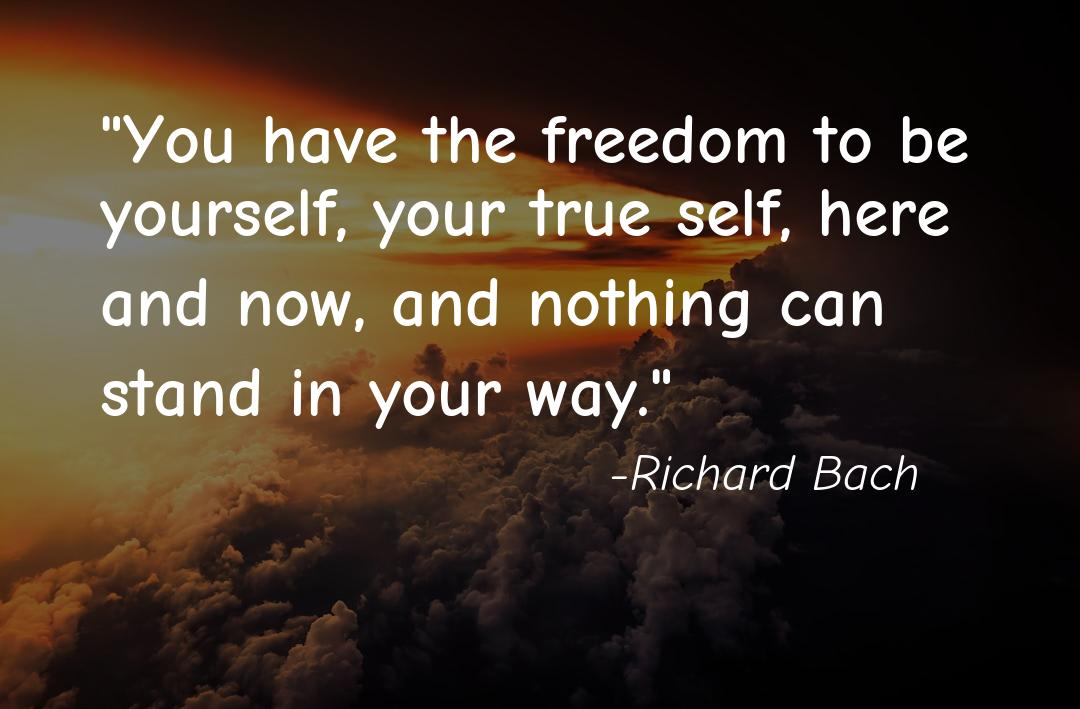
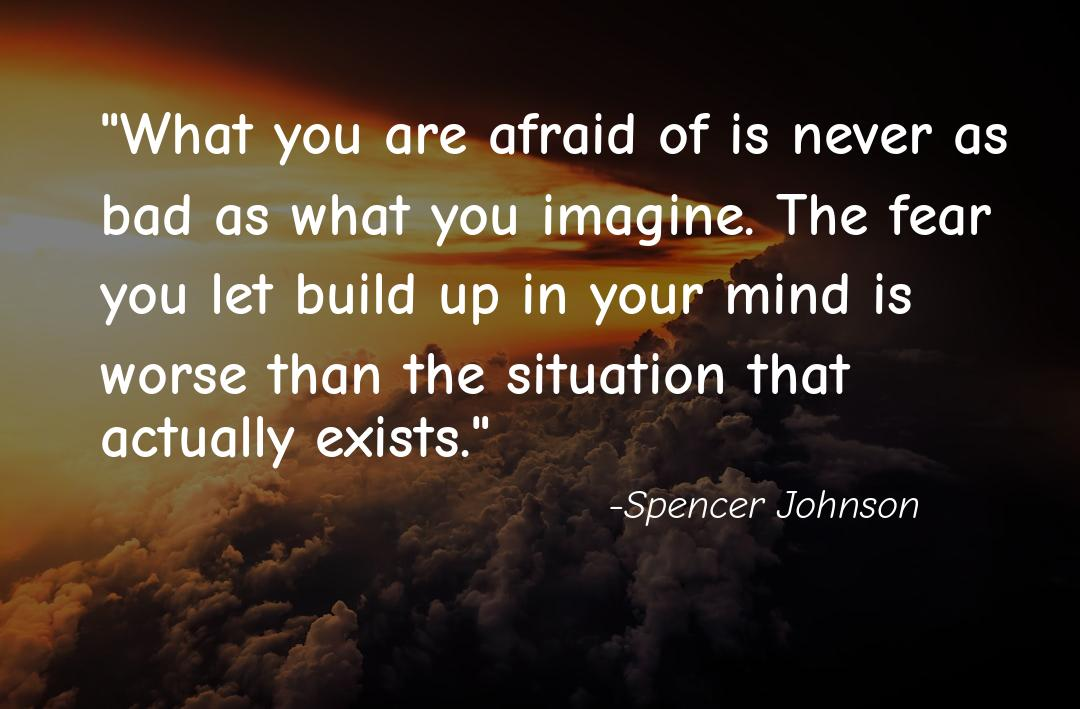
Create and add function to "Generate Quotes" button to navigate back to homepage in /savedquotes route

Changed region(s): [[0.0917, 0.1551, 0.9472, 0.6516], [0.5806, 0.6206, 0.8556, 0.7447]]

diff --git a/static/js/dashboard.js b/static/js/dashboard.js
@@ -1,7 +1,14 @@
-const savedQuotes = document.getElementById("savedQuotes");
+const navigateButton = document.getElementById("navigateButton");
 
-// Saved quotes button clicked
-savedQuotes.addEventListener("click", function() {
-    // Redirect to the /saved-quotes route
-    window.location.href = "/saved-quotes";
+// Navigate button clicked
+navigateButton.addEventListener("click", function() {
+    // If navigate button is Saved Quotes
+    if (navigateButton.textContent.trim() === "Saved Quotes") {
+        // Redirect to the /saved-quotes route
+        window.location.href = "/saved-quotes"; 
+    } 
+    // If navigate button is Homepage
+    else if (navigateButton.textContent.trim() === "Generate Quotes") {
+        history.back();
+    }
 });

diff --git a/templates/layout.html b/templates/layout.html
@@ -19,7 +19,9 @@
     
     <body>
         <header>
-            <div class="saved-quotes btn-function" id="savedQuotes">Saved Quotes</div>
+            <div class="btn-function" id="navigateButton">
+                {% block header %}{% endblock %}
+            </div>
         </header>
         
         <main class="container">

diff --git a/static/css/home.css b/static/css/home.css
@@ -1,8 +1,3 @@
-.saved-quotes {
-    color: var(--White);
-    
-}
-
 .card {
     max-width: 650px;
     width: 95%;
@@ -19,6 +14,7 @@
 
 .quote-image {
     width: 100%;
+    border-radius: 10px;
 
     transition: filter 0.3s ease; /* Smooth transition for filter changes */
 }

diff --git a/templates/saved_quotes.html b/templates/saved_quotes.html
@@ -8,6 +8,10 @@
     Saved Quotes
 {% endblock %}
 
+{% block header %}
+    Generate Quotes
+{% endblock %}
+
 {% block main %}
     {% if saved_quotes %}
         <div class="saved-quotes-container">

diff --git a/templates/index.html b/templates/index.html
@@ -5,7 +5,11 @@
 {% endblock %}
 
 {% block title%}
-    Random Quote
+    Random Quotes
+{% endblock %}
+
+{% block header %}
+    Saved Quotes
 {% endblock %}
 
 {% block main %}

diff --git a/static/css/saved-quotes.css b/static/css/saved-quotes.css
@@ -1,5 +1,6 @@
 .saved-quotes-container {
     display: grid;
+    place-items: center;
     grid-template-columns: 1fr 1fr;
     column-gap: 10px;
     row-gap: 10px;
